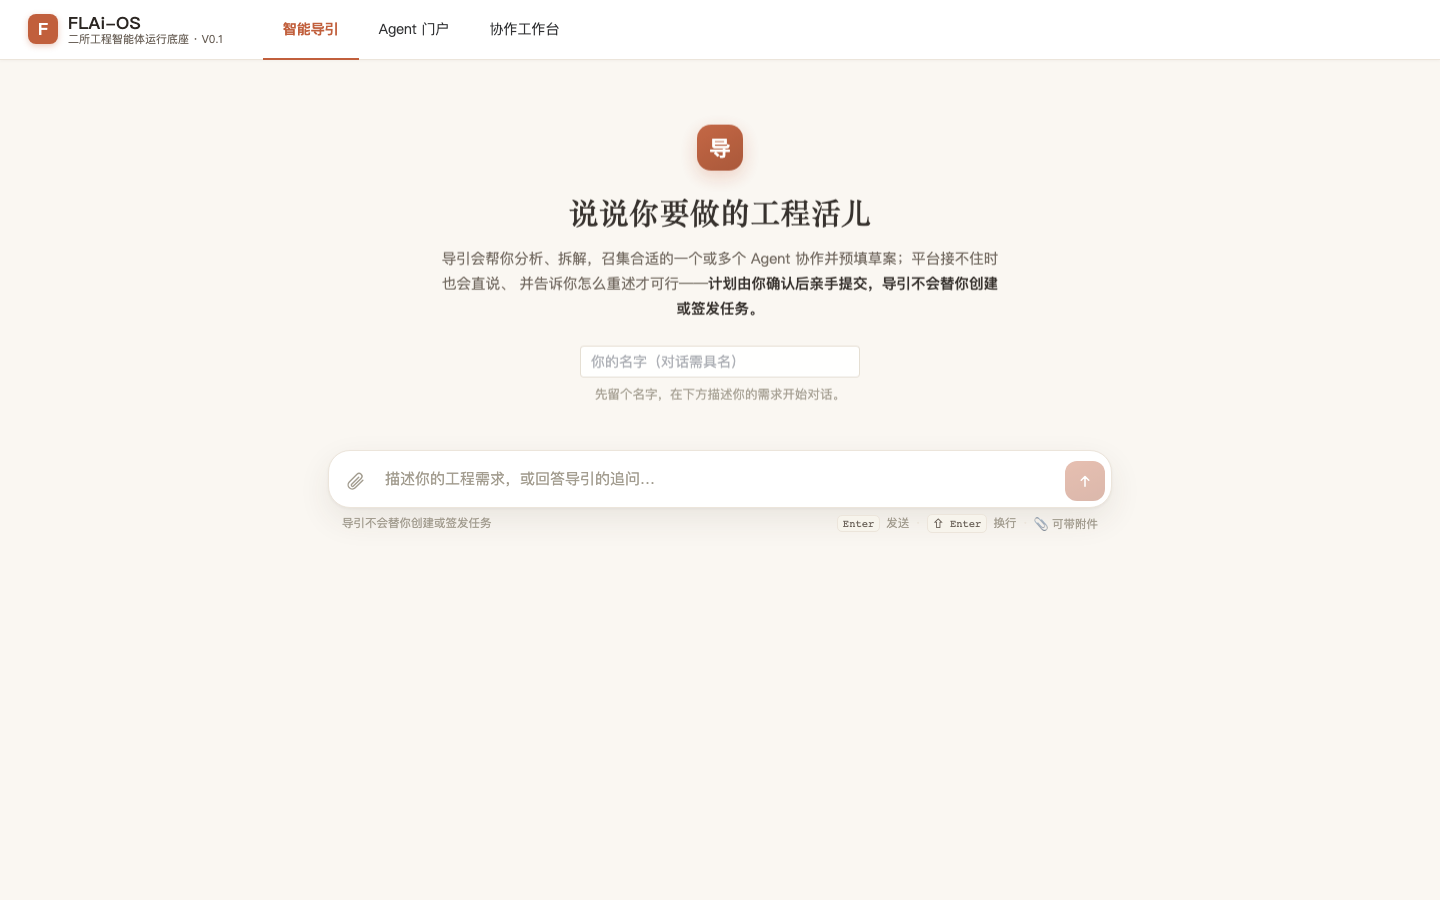
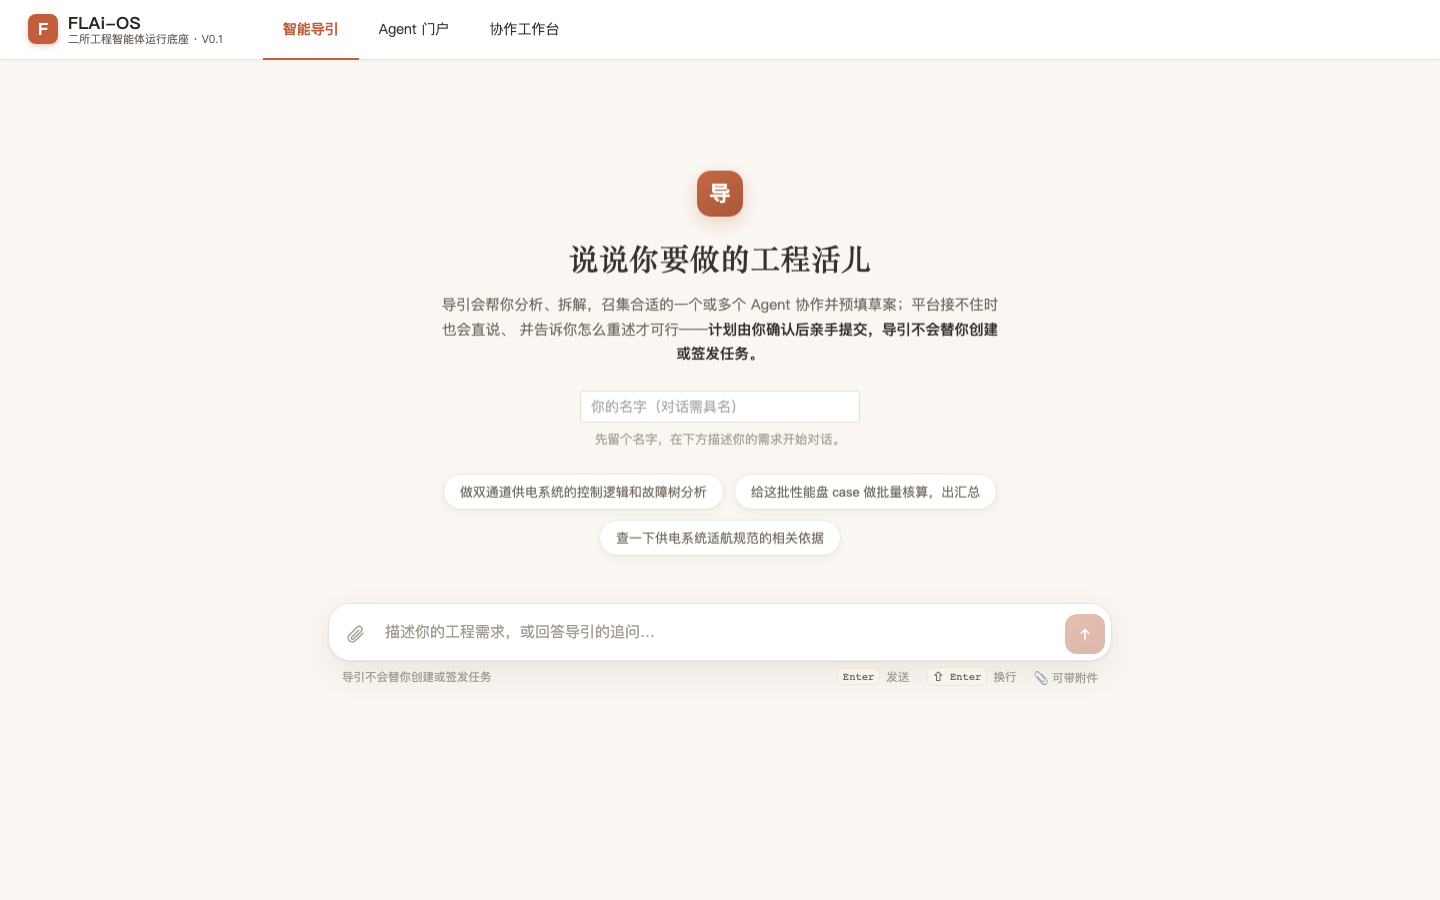
导引页布局对齐 Claude：固定悬浮 composer + 居中空状态 + 示例 chips
承接导引页重设计，补齐布局结构层（上一轮只做了视觉语言，composer 还随流在底部）：

- 固定悬浮 composer：会话开始后 composer `position: fixed` 常驻视口底部、始终可见，
  上缘渐隐让消息从下方穿过（pointer-events 只在输入区，渐隐带可点透）。会话内容加
  152px 底部内边距避让。
- 居中空状态：未开始时 hero + composer 作为一组在视口垂直居中（is-empty flex 居中），
  对齐 Claude 起手布局。
- 示例 prompt chips：空状态给三条工程示例（点一下填进输入框再改再发），Claude 起手手法。

契约保全：composer 重构为 .composer > .composer-inner 后，.composer textarea /
.composer input[type=file] / .composer 内 chip 文案 / 发送 按钮 全部照旧命中。

验证：build 绿；M6 GUIDE 10/10 + M8 ORCHESTRATOR 4/4 全绿（零回归）；本地演示截空状态
（居中 hero+chips）与会话态（固定底部 composer、内容穿行）亲验到位。

confidence: high

diff --git a/frontend/src/views/GuidePage.vue b/frontend/src/views/GuidePage.vue
@@ -1,6 +1,6 @@
 <template>
-  <div class="guide-page">
-    <!-- 起手 hero（未开始且无消息）：衬线问候 + 具名。开始对话后隐去，让位于会话。 -->
+  <div class="guide-page" :class="{ 'is-empty': !started && messages.length === 0 }">
+    <!-- 起手 hero（未开始且无消息）：衬线问候 + 具名，随 composer 在视口垂直居中。 -->
     <div v-if="!started && messages.length === 0" class="guide-hero">
       <div class="hero-mark">导</div>
       <h1 class="hero-title">说说你要做的工程活儿</h1>
@@ -11,6 +11,9 @@
       <div class="hero-starter">
         <el-input v-model="createdBy" placeholder="你的名字（对话需具名）" class="name-input" />
         <span class="starter-hint">先留个名字，在下方描述你的需求开始对话。</span>
+      </div>
+      <div class="hero-examples">
+        <button v-for="(ex, i) in EXAMPLES" :key="i" class="ex-chip" @click="setExample(ex)">{{ ex }}</button>
       </div>
     </div>
 
@@ -153,8 +156,9 @@
       </div>
     </div>
 
-    <!-- 悬浮质感 composer -->
-    <div class="composer">
+    <!-- 悬浮质感 composer：会话开始后固定悬浮在视口底部（Claude 布局，始终可见） -->
+    <div class="composer" :class="{ 'composer-fixed': started || messages.length }">
+      <div class="composer-inner">
       <div v-if="pendingFiles.length" class="composer-files">
         <span
           v-for="f in pendingFiles"
@@ -199,6 +203,7 @@
         <span>导引不会替你创建或签发任务</span>
         <span class="keys"><kbd>Enter</kbd> 发送<span class="sep">·</span><kbd>⇧ Enter</kbd> 换行<span class="sep">·</span>📎 可带附件</span>
       </div>
+      </div>
     </div>
   </div>
 </template>
@@ -228,6 +233,16 @@ const streamEl = ref(null);
 // P2-A 反孤儿纪律；已上传项记 fileId，失败重试不重复上传。
 const pendingFiles = ref([]);
 let fileSeq = 0;
+
+// 空状态示例提示（Claude 起手 chips）：点一下把示例填进输入框，用户再改再发。
+const EXAMPLES = [
+  "做双通道供电系统的控制逻辑和故障树分析",
+  "给这批性能盘 case 做批量核算，出汇总",
+  "查一下供电系统适航规范的相关依据",
+];
+function setExample(text) {
+  draft.value = text;
+}
 
 function handleFileSelect(uploadFile) {
   if (pendingFiles.value.length >= MAX_FILES_PER_MESSAGE) {
@@ -400,7 +415,15 @@ function createOneTask(agent, plan) {
 .guide-page {
   max-width: 784px;
   margin: 0 auto;
-  padding-bottom: 8px;
+  padding-bottom: 152px; /* 让会话内容避开固定悬浮 composer */
+}
+/* 空状态：hero + composer 作为一组在视口垂直居中（Claude 起手布局）。*/
+.guide-page.is-empty {
+  padding-bottom: 0;
+  min-height: 72vh;
+  display: flex;
+  flex-direction: column;
+  justify-content: center;
 }
 
 /* ── 起手 hero ── */
@@ -453,6 +476,30 @@ function createOneTask(agent, plan) {
 .starter-hint {
   color: var(--ink-faint);
   font-size: 12.5px;
+}
+.hero-examples {
+  display: flex;
+  flex-wrap: wrap;
+  gap: 10px;
+  justify-content: center;
+  margin-top: 26px;
+}
+.ex-chip {
+  font-size: 13px;
+  color: var(--ink-soft);
+  background: var(--surface-raised);
+  border: 1px solid var(--hairline);
+  border-radius: 999px;
+  padding: 8px 16px;
+  cursor: pointer;
+  box-shadow: var(--shadow-card);
+  transition: transform 0.16s var(--ease-lift), box-shadow 0.16s var(--ease-lift), border-color 0.16s var(--ease-lift), color 0.16s var(--ease-lift);
+}
+.ex-chip:hover {
+  transform: translateY(-2px);
+  box-shadow: var(--shadow-card-hover);
+  border-color: var(--clay-softer);
+  color: var(--clay);
 }
 
 .page-alert {
@@ -814,6 +861,23 @@ function createOneTask(agent, plan) {
 
 /* ── composer ── */
 .composer { margin-top: 18px; }
+/* 会话开始后：固定悬浮在视口底部，上缘渐隐让消息从下方穿过（Claude 布局）。 */
+.composer.composer-fixed {
+  position: fixed;
+  left: 0;
+  right: 0;
+  bottom: 0;
+  z-index: 15;
+  margin-top: 0;
+  padding: 22px 24px 24px;
+  background: linear-gradient(180deg, rgba(250, 247, 242, 0) 0%, rgba(250, 247, 242, 0.88) 42%, var(--page-bg) 74%);
+  pointer-events: none;
+}
+.composer-inner {
+  max-width: 784px;
+  margin: 0 auto;
+}
+.composer.composer-fixed .composer-inner { pointer-events: auto; }
 .composer-files {
   display: flex;
   flex-wrap: wrap;
